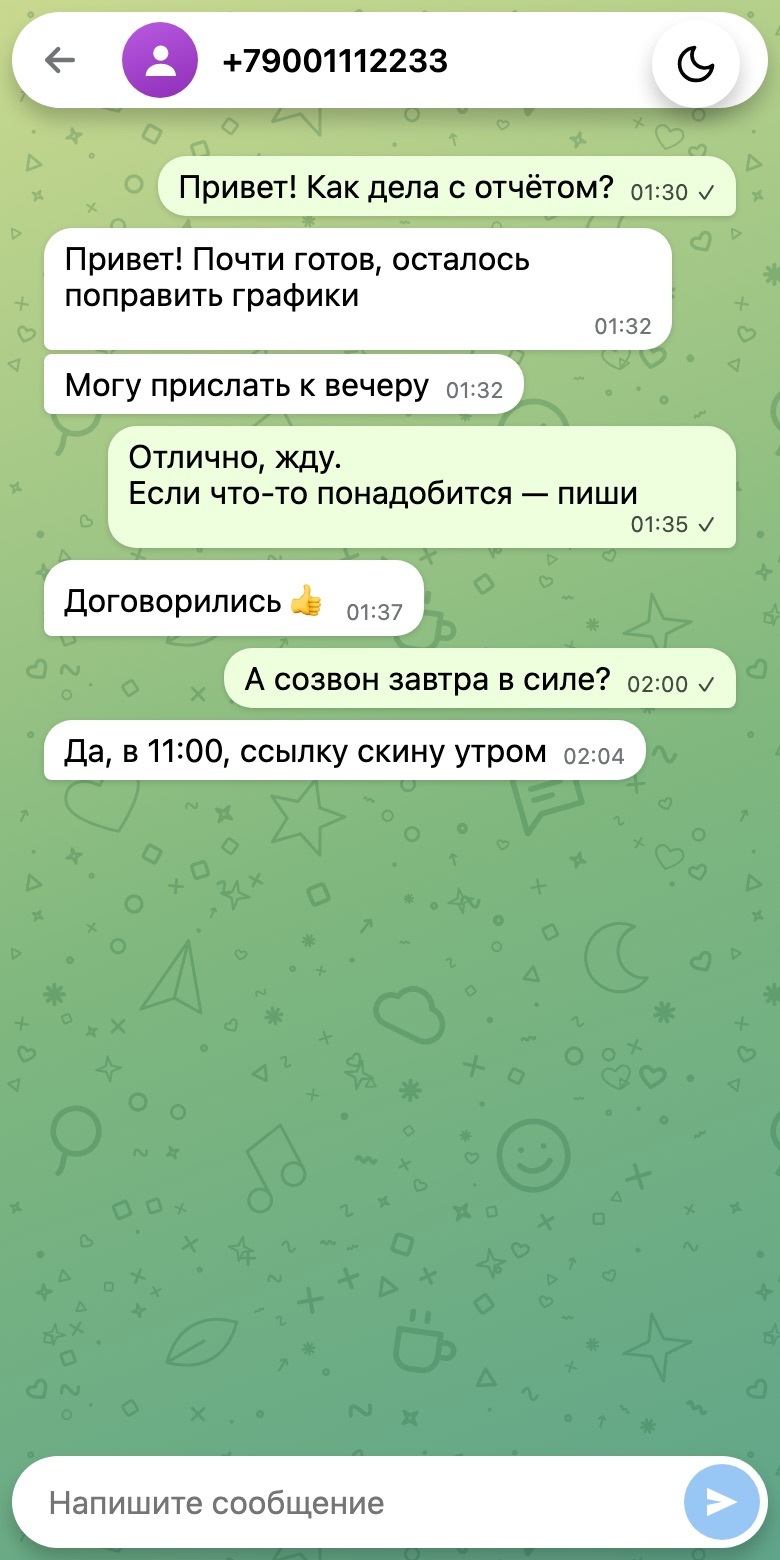
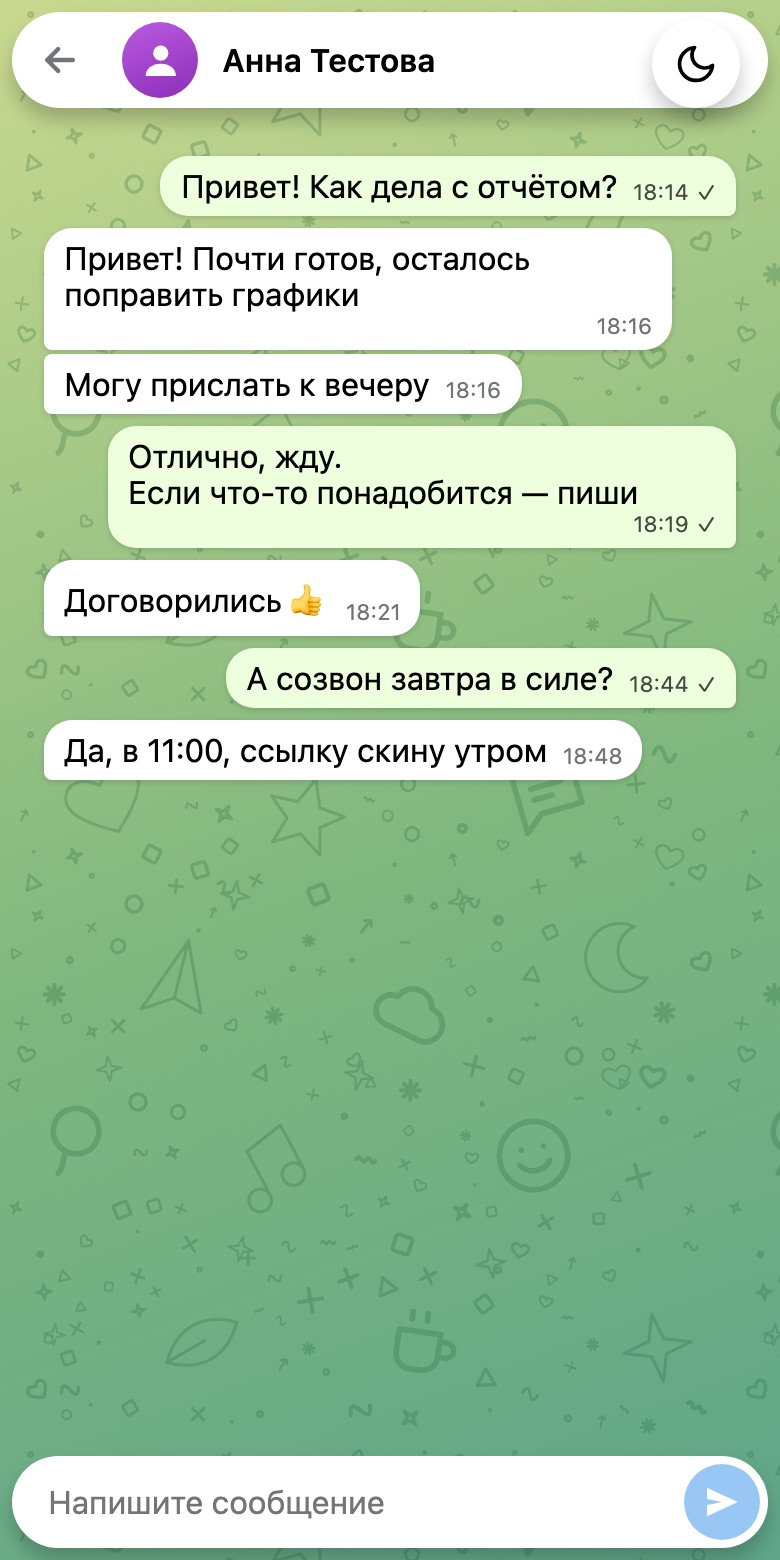
docs: скриншоты с именами чатов, чат от нового собеседника и плашка второй вкладки

diff --git a/README.md b/README.md
@@ -11,6 +11,10 @@
 | ----------------------------------------------------- | ----------------------------------------------------------- | -------------------------------------------------------- |
 | ![Десктоп, тёмная тема](screenshots/desktop-dark.jpg) | ![Мобильная версия, переписка](screenshots/mobile-chat.jpg) | ![Мобильная версия, список](screenshots/mobile-list.jpg) |
 
+Вторая вкладка: опрос ведёт первая, вторая показывает плашку.
+
+![Вторая вкладка с плашкой](screenshots/two-tabs.jpg)
+
 Скриншоты сделаны на вымышленных данных.
 
 **Демо:** `<ссылка появится после публикации>`
